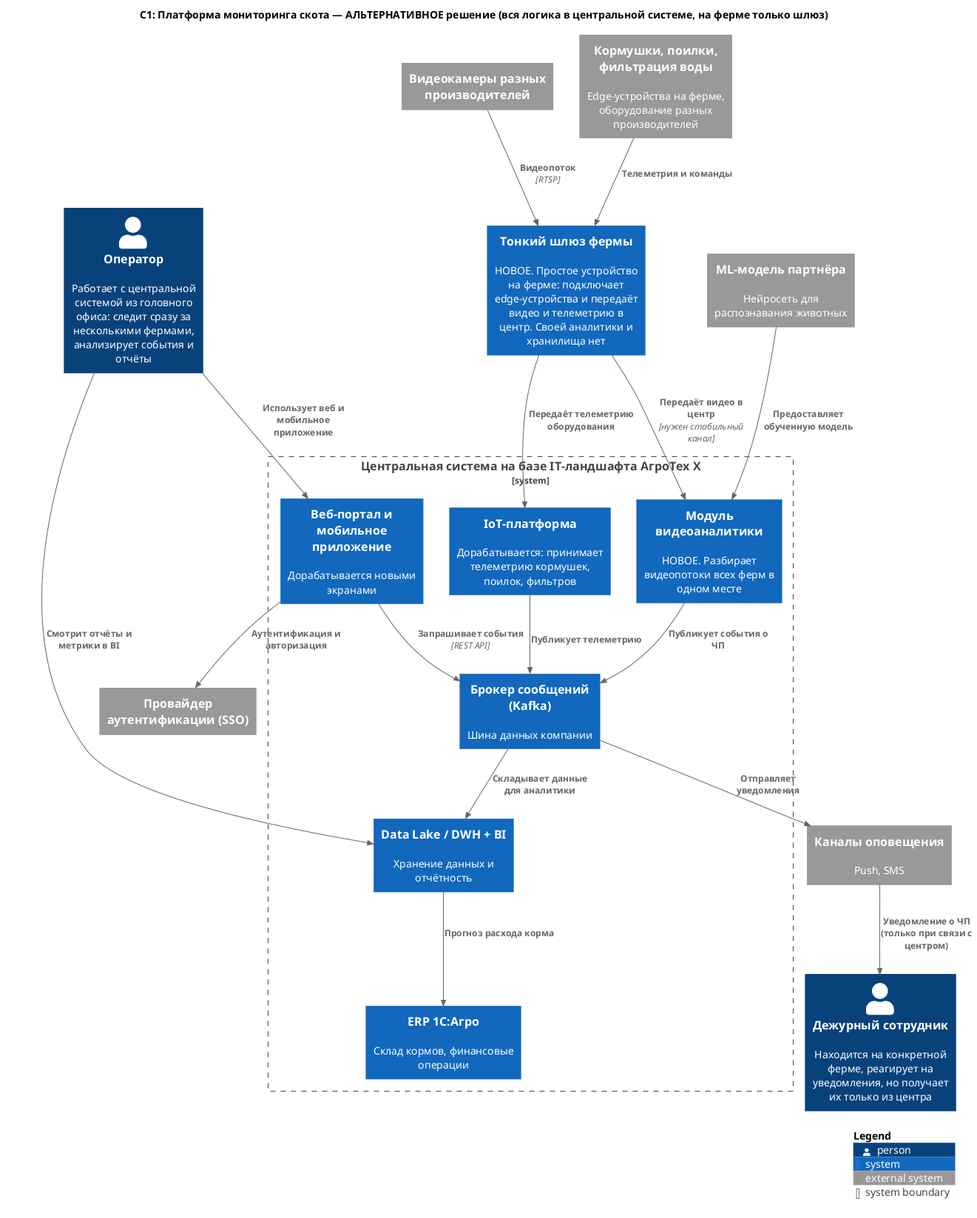
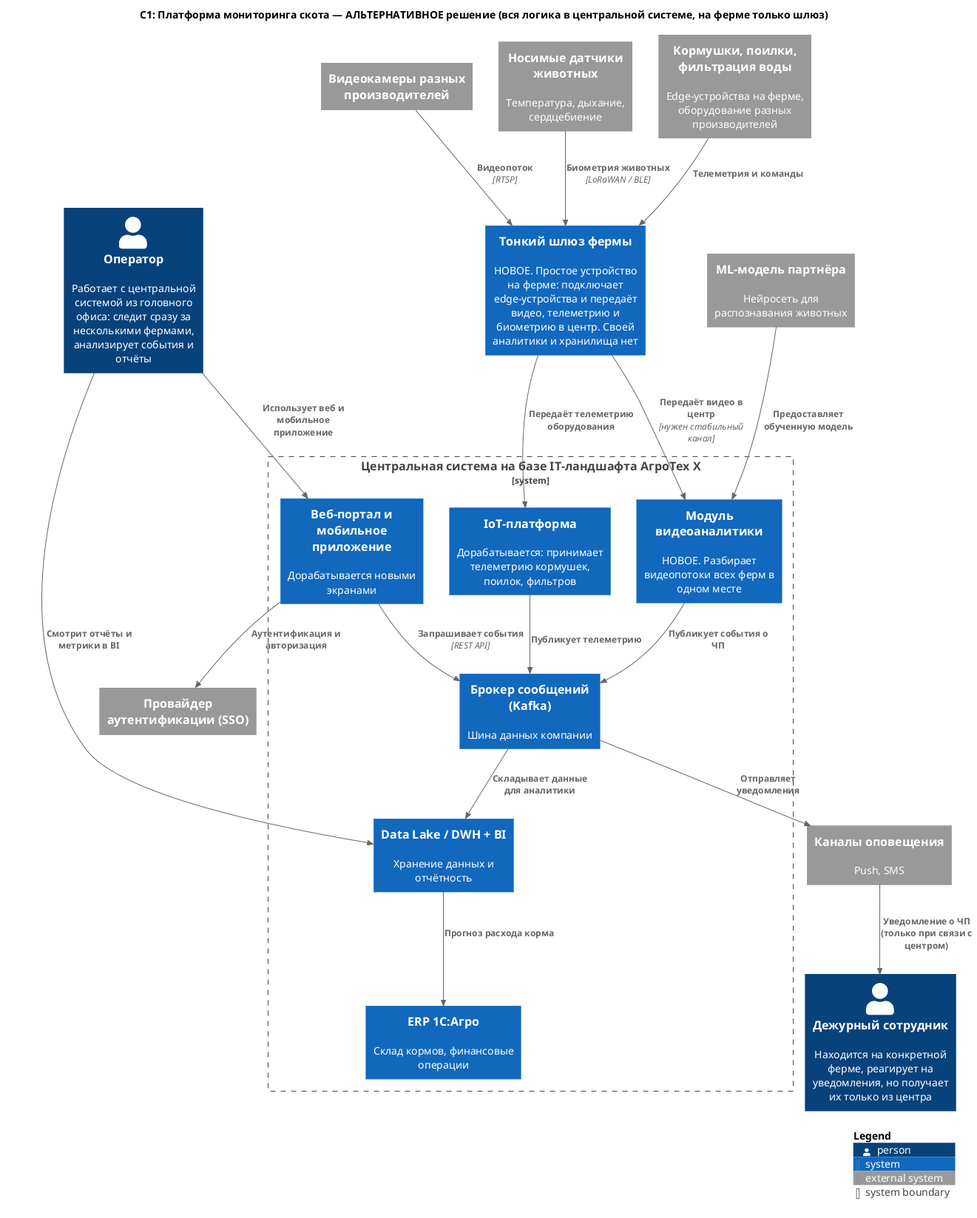
feat: task 2

Changed region(s): [[0.3104, 0.031, 0.838, 0.1548], [0.4966, 0.1858, 0.6518, 0.3097]]

diff --git a/Task2/ADR-002-bounded-contexts.md b/Task2/ADR-002-bounded-contexts.md
@@ -1,0 +1,108 @@
+### **Название задачи:**
+Ограниченные контексты и состав сервисов платформы мониторинга скота (ADR-002, уровень контейнеров C4 — C2)
+
+### **Автор:**
+Сергей Корогод
+
+### **Дата:**
+2026-09-06
+
+### **Функциональные требования**
+
+Полный список — в [ADR-001](../Task1/ADR-001-monitoring-livestock.md). Здесь только то, что определяет состав сервисов.
+
+|**№**|**Действующие лица или системы**|**Описание**|
+| :-: | :- | :- |
+|1|Камеры, агент фермы|Распознавать поведение животных: драки, задавливание поросят, болезнь, гибель, пересчёт поголовья|
+|2|Носимые датчики, агент фермы|Собирать биометрию животных и выявлять отклонения|
+|3|Агент фермы, дежурный|Создавать инциденты по видео и биометрии, оповещать дежурного на месте|
+|4|Агент фермы, кормушки, поилки, фильтры|Управлять оборудованием разных производителей и собирать телеметрию|
+|5|Центральная система, ERP 1С:Агро|Вести учёт поголовья и запасов корма, прогнозировать расход|
+|6|Центральная система, агенты ферм|Вести реестр ферм и устройств, раздавать конфигурацию|
+|7|Центральная система, внешние системы|Предоставлять базовые и пользовательские метрики|
+|8|Оператор, дежурный, SSO|Разделять роли, поддерживать аутентификацию и авторизацию|
+
+### **Нефункциональные требования**
+
+|**№**|**Требование**|
+| :-: | :- |
+|1|От ЧП до оповещения — не более 5 секунд, обработка видео в реальном времени|
+|2|Работа фермы без интернета, синхронизация с центром с задержкой до 10 минут|
+|3|Отказоустойчивость 99,95%|
+|4|Расширяемость: новый функционал добавляется без изменения существующего|
+|5|На ферме один локальный сервер, канал связи до центра нестабильный|
+
+### **Ограниченные контексты**
+
+|**Контекст**|**Ответственность**|**Где работает**|
+| :- | :- | :- |
+|Видеонаблюдение и аналитика|Приём потоков с камер, запуск модели партнёра, выдача детекций|Ферма|
+|Биометрия животных|Приём показаний датчиков, выявление отклонений|Ферма|
+|Инциденты и оповещения|Правила поверх детекций, биометрии и телеметрии, уведомления|Ферма и центр|
+|Оборудование фермы|Адаптеры к кормушкам, поилкам, фильтрам|Ферма|
+|Учёт и метрики|Поголовье, запасы корма, базовые и пользовательские метрики|Центр|
+|Реестр ферм и устройств|Список ферм, агентов, камер, конфигурация|Центр|
+|Синхронизация|Буфер данных фермы и обмен с центром|Ферма и центр|
+|Доступ и роли|Аутентификация, авторизация, роли|Внешний SSO|
+
+Границы проведены по месту обработки данных: видео, биометрия и оборудование — только на ферме (НФТ 1, 2), учёт и реестр — только в центре, где есть данные всех ферм. Биометрия отделена от видео: другой источник и темп поступления (минуты против миллисекунд). Инциденты есть в обоих местах: на ферме создаются, в центре хранятся и показываются оператору.
+
+### **Решение**
+
+Вариант 1: на ферме несколько небольших сервисов, обмен между ними через локальную Kafka по схеме публикация-подписка. В центре микросервисы за API Gateway.
+
+Диаграмма контейнеров: [c2-main.puml](c2-main.puml)
+
+![C2 вариант 1](c2-main.png)
+
+Обоснование:
+
+- Каждый контекст — отдельный сервис, новый сценарий добавляется без изменения существующих (НФТ 4).
+- Видеоаналитика отделена: требует GPU и обновляется вместе с моделью партнёра.
+- Обмен через Kafka: сервисы не зависят от доступности соседа, сообщения ждут в топике (НФТ 3).
+- Локальная БД и сервис синхронизации дают работу без интернета (НФТ 2).
+
+Интеграции:
+
+|**Что связываем**|**Технология**|**Почему**|**Ограничение**|
+| :- | :- | :- | :- |
+|Оборудование и датчики с агентом|MQTT (Mosquitto), датчики по LoRaWAN, мост в Kafka|Стандарт для устройств и батарейных датчиков, данные попадают в общие топики|Оборудование без MQTT — через адаптер Modbus. Показания датчиков идут с интервалом в минуты|
+|Сервисы внутри агента|Kafka, публикация-подписка|Технология уже есть в компании, сообщения переживают перезапуск сервиса|Требовательна к памяти и диску, на ферме один брокер без резервирования|
+|Видеопотоки и видеоаналитика|Kafka со ссылкой на кадр, кадр в локальном хранилище|Через брокер идут только ссылки, аналитику можно перезапускать|Хранилище нужно чистить по расписанию|
+|Агент и центр|gRPC поверх HTTPS через Kong, пакетами|Экономит трафик, переживает обрывы, повтор по идентификатору события|Данные в центре отстают до 10 минут|
+|Центр и агент|Агент сам забирает конфигурацию|Фермы за NAT, входящие соединения недоступны|Конфигурация применяется с задержкой|
+|Вход в центр|API Gateway Kong|Одна точка входа для агентов и портала: токены и маршрутизация|Единая точка отказа, нужно резервирование|
+|Повторы от агентов|Redis, идентификаторы событий с ограниченным сроком хранения|Нужна только проверка «событие уже принято»|Данные в памяти, при перезапуске часть ключей теряется|
+|Сервисы центра между собой|Корпоративная Kafka, отдельные топики|Сглаживает всплеск, когда агенты выгружают накопленное; новый потребитель подписывается без правок в источнике (НФТ 4)|Обработка асинхронная, недоступность Kafka останавливает разбор данных ферм|
+|Передача данных в компанию|Те же топики Kafka, далее DWH|Отчётность получает данные из существующей шины (ФТ 7)|Формат сообщений общий с другими потребителями, изменения нужно согласовывать|
+|Аутентификация|Внешний SSO по OIDC|Своё решение не разрабатывается (ФТ 8)|При недоступности SSO вход в центр невозможен, на ферме нужна локальная учётная запись|
+
+### **Альтернативы**
+
+Вариант 2: на ферме один сервис с модулями (видеопотоки, аналитика, биометрия, правила, оповещения, синхронизация), отдельно вынесен только сервис устройств. Центр тот же.
+
+Диаграмма контейнеров: [c2-alternative.puml](c2-alternative.puml)
+
+![C2 вариант 2](c2-alternative.png)
+
+Преимущества: меньше разработки и короче срок MVP, ниже требования к серверу фермы (Kafka не нужна), проще развёртывание.
+
+Причины отказа:
+
+- Обновление любого модуля требует перезапуска всего сервиса, включая видеоаналитику.
+- Расширение функционала затрагивает общий код (НФТ 4), а ошибка в одном модуле останавливает остальные (НФТ 3).
+
+Вариант 2 остаётся запасным для первых пилотных ферм, если потребуется сократить срок MVP.
+
+**Недостатки, ограничения, риски**
+
+- Восемь сервисов на ферме: выше требования к серверу и сложнее обновление.
+- Kafka на ферме в одном экземпляре, резервирование на одном сервере невозможно (НФТ 5). Нужно заложить память, диск и срок хранения топиков.
+- Логика инцидентов есть и на ферме, и в центре — правила нужно поддерживать согласованными.
+- Данные хранятся в двух местах с расхождением до 10 минут. Источник данных по событиям — агент фермы.
+- Оповещения идут двумя путями (локально и из центра), возможны повторные уведомления по одному инциденту.
+- Через сервис приёма проходит весь поток от ферм, его нужно масштабировать вместе с числом агентов. Срок хранения ключей в Redis должен превышать максимальное время накопления данных на ферме.
+- Центр зависит от корпоративной Kafka: при её недоступности события ферм не доходят до сервисов, агенты повторяют отправку.
+- Биометрия и видео поступают с разной частотой, правила их сопоставления требуют проверки на пилоте. Датчики работают на батарее, нужен учёт замены.
+- Задержку на публикацию и чтение сообщений нужно подтвердить нагрузочным тестом на ферме с максимальным числом камер (НФТ 1).
+- Объём MVP ограничен ФТ 1, 2 и 4. Прогноз расхода корма и пользовательские метрики — следующей итерацией.

diff --git a/Task1/ADR-001-monitoring-livestock.md b/Task1/ADR-001-monitoring-livestock.md
@@ -25,6 +25,7 @@ MVP платформы мониторинга скота для «АгроТех
 |12|Агент фермы, дежурный, центральная система|Работать без интернета, оповещать дежурного на месте, после восстановления связи синхронизироваться с центром|
 |13|Оператор, дежурный, провайдер SSO|Разделять роли, поддерживать современную аутентификацию и авторизацию|
 |14|Центральная система, веб- и мобильное приложение|Предоставлять API для веб- и мобильного приложения|
+|15|Агент фермы, носимые датчики животных|Собирать биометрию животных (температура, дыхание, сердцебиение) и учитывать её при оценке состояния|
 
 ### **Нефункциональные требования**
 
@@ -38,17 +39,18 @@ MVP платформы мониторинга скота для «АгроТех
 |6|На ферме допустим один локальный сервер и набор edge-устройств|
 |7|Камеры должны снимать ночью, обученную модель предоставляет партнёр|
 |8|Задержка синхронизации фермы с центром — до 10 минут|
+|9|Носимые датчики работают на батарее и передают данные по маломощному радиоканалу с интервалом в минуты|
 
 ### **Решение**
 
 Термины:
 
 - **Центральная система** — одна на всю платформу, размещается в головном офисе или облаке. Ведёт реестр ферм, собирает события и метрики, управляет ролями и доступами, предоставляет API.
-- **Агент** — локальный сервер фермы вместе с его ПО. Управляет edge-устройствами: камерами, кормушками, поилками, фильтрами. Количество агентов равно количеству ферм.
+- **Агент** — локальный сервер фермы вместе с его ПО. Управляет edge-устройствами: камерами, носимыми датчиками животных, кормушками, поилками, фильтрами. Количество агентов равно количеству ферм.
 
 Пользователей два: **оператор** работает с центральной системой и наблюдает за несколькими фермами, **дежурный сотрудник** находится на конкретной ферме и реагирует на локальные уведомления.
 
-Выбрано решение **«локальный сервер-агент на ферме + одна центральная система»**. Видеоаналитика, оповещения и хранение данных выполняются на ферме. Центральная система собирает события и метрики со всех ферм и предоставляет API.
+Выбрано решение **«локальный сервер-агент на ферме + одна центральная система»**. Видеоаналитика, обработка данных носимых датчиков, оповещения и хранение данных выполняются на ферме. Центральная система собирает события и метрики со всех ферм и предоставляет API.
 
 Диаграмма контекста: [c1-main.puml](c1-main.puml)
 
@@ -60,7 +62,8 @@ MVP платформы мониторинга скота для «АгроТех
 - В центр передаются события и метрики, а не видео. Объём трафика при этом невелик, а допустимая задержка синхронизации составляет 10 минут (НФТ 8).
 - ФТ 9 выполняется за счёт одинаковых агентов: подключение новой фермы не требует изменений в центральной системе (НФТ 2).
 - Недоступность одной фермы не влияет на остальные фермы и на центральную систему (НФТ 1).
-- Оборудование разных производителей (ФТ 3, 8) подключается через слой адаптеров в составе агента.
+- Оборудование разных производителей (ФТ 3, 8, 15) подключается через слой адаптеров в составе агента.
+- Используются два источника данных: видео и биометрия с носимых датчиков (ФТ 15). Рост температуры, изменение дыхания и сердечного ритма по видео не определяются. Оба потока обрабатывает агент фермы, поэтому оценка состояния животных не зависит от связи с центром.
 - Существующие системы переиспользуются: Kafka — шина метрик, Data Lake / DWH + BI — отчётность, ERP 1С:Агро — склад кормов (ФТ 7, 10), веб-портал и мобильное приложение — клиенты API (ФТ 14), внешний SSO — роли и аутентификация (ФТ 13).
 
 ### **Альтернативы**
@@ -88,5 +91,8 @@ MVP платформы мониторинга скота для «АгроТех
 - Данные в центральной системе отстают от данных фермы до 10 минут, при отсутствии связи — дольше. Источником данных по событиям считается агент фермы.
 - Объём MVP ограничен сценариями: драки, задавливание поросят, пересчёт поголовья, контроль кормушек и поилок. Прогноз расхода корма и пользовательские метрики переносятся на следующую итерацию.
 - Точность модели ограничена: тени, схожесть особей и ночная съёмка дают ошибки распознавания. Для MVP допускаются ложные срабатывания, пропуск события считается недопустимым.
+- Датчики передают данные с интервалом в минуты (НФТ 9), поэтому в 5 секунд (НФТ 3) укладывается только видеоаналитика. Биометрия используется как дополнительный признак и для подтверждения состояния животного.
+- Датчики работают на батарее и требуют обслуживания.
+- Применение датчиков требует проверки ветеринарных и законодательных ограничений.
 - Логика животноводства не размещается в ERP и SCADA, так как это ограничит расширяемость (НФТ 2) и последующий вынос платформы в SaaS.
 

diff --git a/README.md b/README.md
@@ -7,7 +7,7 @@
 ## Как отрисовать диаграммы
 
 ```bash
-java -jar plantuml.jar -DRELATIVE_INCLUDE="." -tpng -o . Task1/*.puml
+java -jar plantuml.jar -DRELATIVE_INCLUDE="." -tpng -o . Task1/*.puml Task2/*.puml
 ```
 
 Флаг `-DRELATIVE_INCLUDE="."` заставляет шаблон брать `templates/C4.puml` локально; без флага он подтянет C4-PlantUML из интернета.
